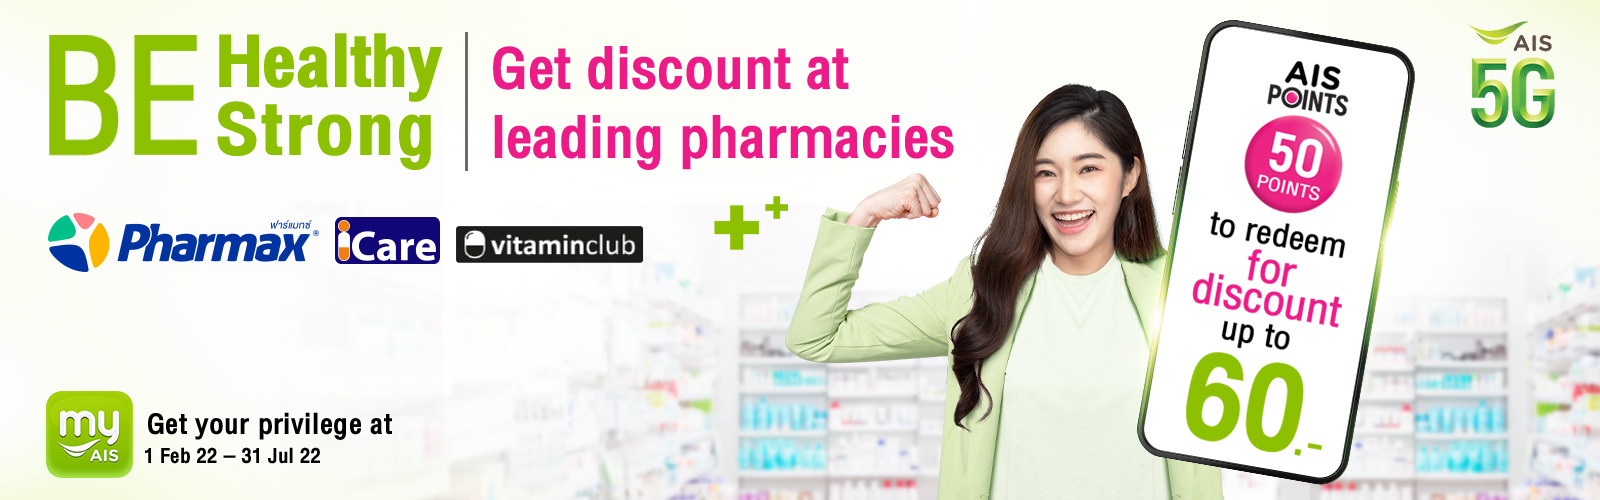
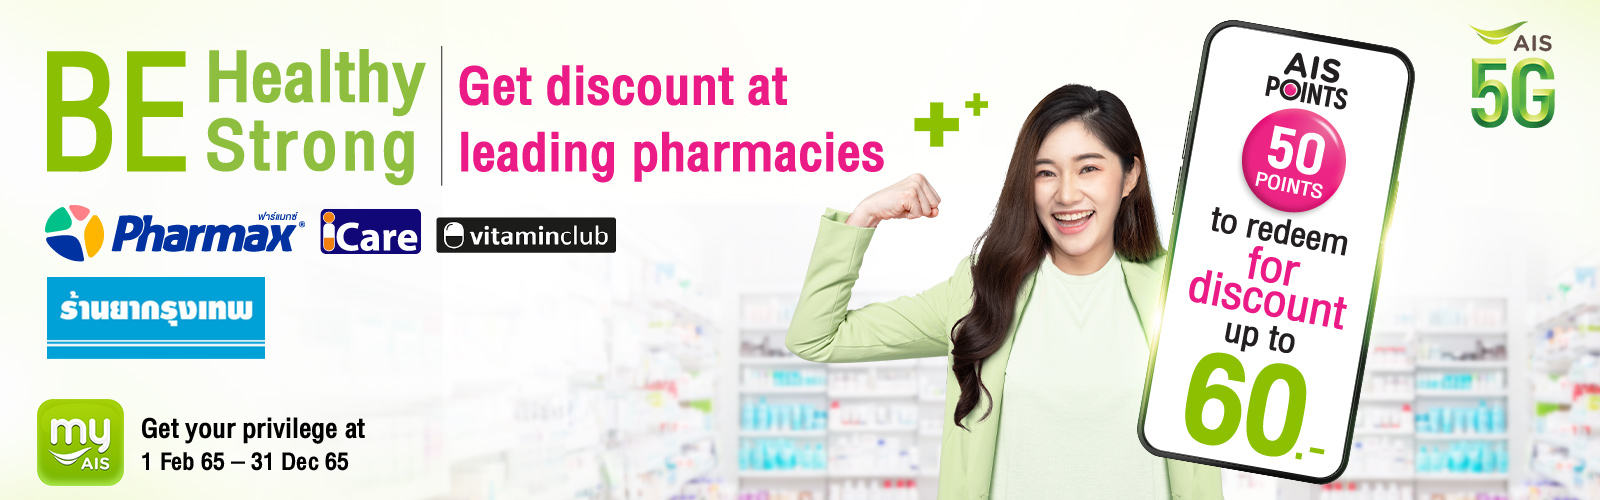
update

diff --git a/inc_health_solution.html b/inc_health_solution.html
@@ -385,6 +385,66 @@
 
 
 
+            <article class="card-privilege" id="health_solution06">
+                <div class="card-item">
+                    <div class="product">
+                        <div class="img_product"><img src="asset/images/products/logo12.jpg" alt=""></div>
+                    </div>
+                    <div class="content">
+                        <div class="content-in">
+                            <div class="info">
+                                <div class="info-top">
+                                    <div class="txt-in">
+                                        <h1>
+                                            <span style="font-size: 75%;">ร้านยากรุงเทพ</span>
+                                        </h1>
+                                    </div>
+                                    <div class="txt-in">
+                                        <h3>สิทธิพิเศษที่ลูกค้าได้รับ</h3>
+                                        <p>ใช้คะแนนเอไอเอส พอยท์ 50 คะแนน รับส่วนลด 50 บาท <span class="t_inline">เมื่อซื้อสินค้าใดๆ ครบ 500 บาท</span></p>
+                                    </div>
+                                </div>
+                                <div class="info-bottom">
+                                    <div class="txt-in">
+                                        <h4>ระยะเวลาสิทธิพิเศษ : <span class="expire">1 กรกฎาคม 2565 – 31 ธันวาคม 2565</span></h4>
+                                    </div>
+                                    <div class="d-flex align-items-center justify-content-md-start justify-content-center">
+                                        <!-- <a href="javascript:void(0);" class="btn_properties mt-3 mr-2">ขั้นตอนการรับสิทธิ์ <img src="asset/images/arr.png" alt="" width="10"></a> -->
+                                        <a href="javascript:void(0);" class="btn_condition mt-3 mr-2">เงื่อนไข <img src="asset/images/arr.png" alt="" width="10"></a>
+                                    </div>
+                                </div>
+                            </div>
+                            <div class="code">
+                                <div class="txt">
+                                    <h2>วิธีการรับสิทธิ์</h2>
+                                    <div class="logo_app"><img src="asset/images/logo_app.png" alt=""></div>
+                                    <h3>รับโค้ดส่วนลดและสั่งซื้อ<br>ผ่านแอป myAIS</h3>
+                                    <a href="http://privilege.ais.co.th/qrcode/a3xmEHprcGFi?channel=line" target="_blank" class="btn_codeapp">คลิกเลย <img src="asset/images/arr.png" alt="" width="10"></a>
+                                </div>
+                            </div>
+                        </div>
+                        <!-- <div class="card-details box-properties">
+                            <div class="txt">
+                                <h1>ขั้นตอนการรับสิทธิ์</h1>
+                                <ul>
+                                    <li>สิทธิพิเศษนี้สำหรับลูกค้า AIS และ AIS Fibre ที่จดทะเบียน/แสดงตนในนามบุคคลธรรมดาเท่านั้น</li>
+                                    <li>นจำกัด 3,000 สิทธิ์ / เดือน</li>
+                                    <li>กรณีทำรายการแลกพอยท์แล้ว ไม่สามารถยกเลิกได้ทุกกรณี</li>
+                            </div>
+                        </div> -->
+                        <div class="card-details box-condition">
+                            <div class="txt">
+                                <h1>เงื่อนไข</h1>
+                                <ul>
+                                    <li>สิทธิพิเศษนี้สำหรับลูกค้า AIS และ AIS Fibre ที่จดทะเบียน/แสดงตนในนามบุคคลธรรมดาเท่านั้น</li>
+                                    <li>จำกัด 3,000 สิทธิ์ / เดือน</li>
+                                    <li>กรณีทำรายการแลกพอยท์แล้ว ไม่สามารถยกเลิกได้ทุกกรณี</li>
+                                </ul>
+                            </div>
+                        </div>
+                    </div>
+                </div>
+            </article>
 
         </div>
     </div>

diff --git a/en/inc_health_solution.html b/en/inc_health_solution.html
@@ -385,6 +385,71 @@
           </article>
 
 
+          <article class="card-privilege" id="health_solution06">
+            <div class="card-item">
+              <div class="product">
+                <div class="img_product"><img src="../asset/images/products/logo12.jpg" alt=""></div> 
+              </div>
+              <div class="content">
+                <div class="content-in">
+                  <div class="info">
+                    <div class="info-top">
+                      <div class="txt-in">
+                        <div class="txt-in-en">
+                        <h1>Bangkok Drugstore</h1>
+                        </div>
+                      </div>
+                      <div class="txt-in">
+                        <h3>Privileges for AIS Customers :</h3>
+                        <p>Redeem 50 AIS points to get discount of up to 50 Baht when purchasing products for at least 500 Baht.</p>
+                       </div>
+                    </div>
+                    <div class="info-bottom">
+                      <div class="txt-in">
+                        <h4>Privilege Duration : <span class="expire">1  July 2022 - 31 December 2022</span></h4>
+                      </div>
+                      <div class="d-flex align-items-center justify-content-md-start justify-content-center">
+                        <!-- <a href="javascript:void(0);" class="btn_properties mt-3 mr-2">Operation steps <img src="../asset/images/arr.png" alt="" width="10"></a> -->
+                        <a href="javascript:void(0);" class="btn_condition mt-3 mr-2">Conditions <img src="../asset/images/arr.png" alt="" width="10"></a>
+                      </div>
+                    </div>
+                  </div>
+                  <div class="code">
+                    <div class="txt">
+                      <h2>How to redeem <br> the privilege</h2>
+                      <div class="logo_app"><img src="../asset/images/logo_app.png" alt=""></div>
+                      <h3>Click to receive a discount code<br> via myAIS application</h3>
+                      <a href="http://privilege.ais.co.th/qrcode/a3xmEHprcGFi?channel=line" target="_blank" class="btn_codeapp">Click <img src="../asset/images/arr.png" alt="" width="10"></a>
+                    </div>
+                  </div>
+                </div>
+                <!-- <div class="card-details box-properties">
+                  <div class="txt">
+                    <h1>Operation steps</h1>
+                    <ul>
+                      <li>Get code at my AIS app</li>
+                      <li>Apply the discount code at <a href="https://line.me/R/ti/p/%40129xhigy" target="_blank">Click</a> </li>
+                      <li>Or show discount code at TopsVita shop</li>
+                    </ul>
+                  </div>
+                </div> -->
+                <div class="card-details box-condition">
+                  <div class="txt">
+                    <h1>Conditions</h1>
+                    <ul>
+                     <li>สิทธิพิเศษนี้สำหรับลูกค้า AIS และ AIS Fibre ที่จดทะเบียน/แสดงตนในนามบุคคลธรรมดาเท่านั้น</li>
+                     <li>จำกัด 3,000 สิทธิ์ / เดือน</li>
+                     <li>กรณีทำรายการแลกพอยท์แล้ว ไม่สามารถยกเลิกได้ทุกกรณี</li>
+                    </ul>
+                    </div>
+                  </div>
+                </div>
+              </div>
+            </article>
+  
+  
+          
+
       </div>
     </div>
   </div>

diff --git a/asset/js/custom.js b/asset/js/custom.js
@@ -210,6 +210,19 @@ $('#inc_health_solution').show().load('inc_health_solution.html',function(){
 
 
 
+  $('#health_solution06 .btn_properties').click(function(){
+    $('#health_solution06 .btn_condition').removeClass('active');
+    $(this).toggleClass('active');
+    $('#health_solution06 .box-properties').slideToggle();
+    $('#health_solution06 .box-condition').slideUp();
+  });
+  $('#health_solution06 .btn_condition').click(function(){
+    $('#health_solution06 .btn_properties').removeClass('active');
+    $(this).toggleClass('active');
+    $('#health_solution06 .box-properties').slideUp();
+    $('#health_solution06 .box-condition').slideToggle();
+  });
+
 });
 
 
@@ -258,18 +271,18 @@ $('#inc_telemedicine').show().load('inc_telemedicine.html',function(){
     $('#telemedicine03 .box-condition').slideToggle();
   });
 
-  $('#telemedicine04 .btn_properties').click(function(){
-    $('#telemedicine04 .btn_condition').removeClass('active');
-    $(this).toggleClass('active');
-    $('#telemedicine04 .box-properties').slideToggle();
-    $('#telemedicine04 .box-condition').slideUp();
-  });
-  $('#telemedicine04 .btn_condition').click(function(){
-    $('#telemedicine04 .btn_properties').removeClass('active');
-    $(this).toggleClass('active');
-    $('#telemedicine04 .box-properties').slideUp();
-    $('#telemedicine04 .box-condition').slideToggle();
-  });
+  // $('#telemedicine04 .btn_properties').click(function(){
+  //   $('#telemedicine04 .btn_condition').removeClass('active');
+  //   $(this).toggleClass('active');
+  //   $('#telemedicine04 .box-properties').slideToggle();
+  //   $('#telemedicine04 .box-condition').slideUp();
+  // });
+  // $('#telemedicine04 .btn_condition').click(function(){
+  //   $('#telemedicine04 .btn_properties').removeClass('active');
+  //   $(this).toggleClass('active');
+  //   $('#telemedicine04 .box-properties').slideUp();
+  //   $('#telemedicine04 .box-condition').slideToggle();
+  // });
 
   $('#telemedicine05 .btn_properties').click(function(){
     $('#telemedicine05 .btn_condition').removeClass('active');

diff --git a/inc_telemedicine.html b/inc_telemedicine.html
@@ -278,12 +278,10 @@
             </article>
 
 
-            <article class="card-privilege" id="telemedicine04">
+            <!-- <article class="card-privilege" id="telemedicine04">
                 <div class="card-item">
                     <div class="product">
-                        <!-- <div class="logo_brand"><img src="asset/images/products/logo14.png" alt=""></div> -->
                         <div class="img_product"><img src="asset/images/products/logo11.jpg" alt=""></div>
-                        <!-- <div class="award"><img src="asset/images/products/type1/award01.png" alt=""></div> -->
                     </div>
                     <div class="content">
                         <div class="content-in">
@@ -356,7 +354,7 @@
                         </div>
                     </div>
                 </div>
-            </article>
+            </article> -->
 
             <article class="card-privilege" id="telemedicine05">
                 <div class="card-item">

diff --git a/en/inc_telemedicine.html b/en/inc_telemedicine.html
@@ -281,12 +281,10 @@
         </div>
       </article>
 
-      <article class="card-privilege" id="telemedicine04">
+      <!-- <article class="card-privilege" id="telemedicine04">
         <div class="card-item">
             <div class="product">
-                <!-- <div class="logo_brand"><img src="../asset/images/products/logo14.png" alt=""></div> -->
                 <div class="img_product"><img src="../asset/images/products/logo11.jpg" alt=""></div>
-                <!-- <div class="award"><img src="../asset/images/products/type1/award01.png" alt=""></div> -->
             </div>
             <div class="content">
                 <div class="content-in">
@@ -355,7 +353,7 @@
                 </div>
             </div>
         </div>
-    </article>
+    </article> -->
     
 
       <article class="card-privilege" id="telemedicine05">
